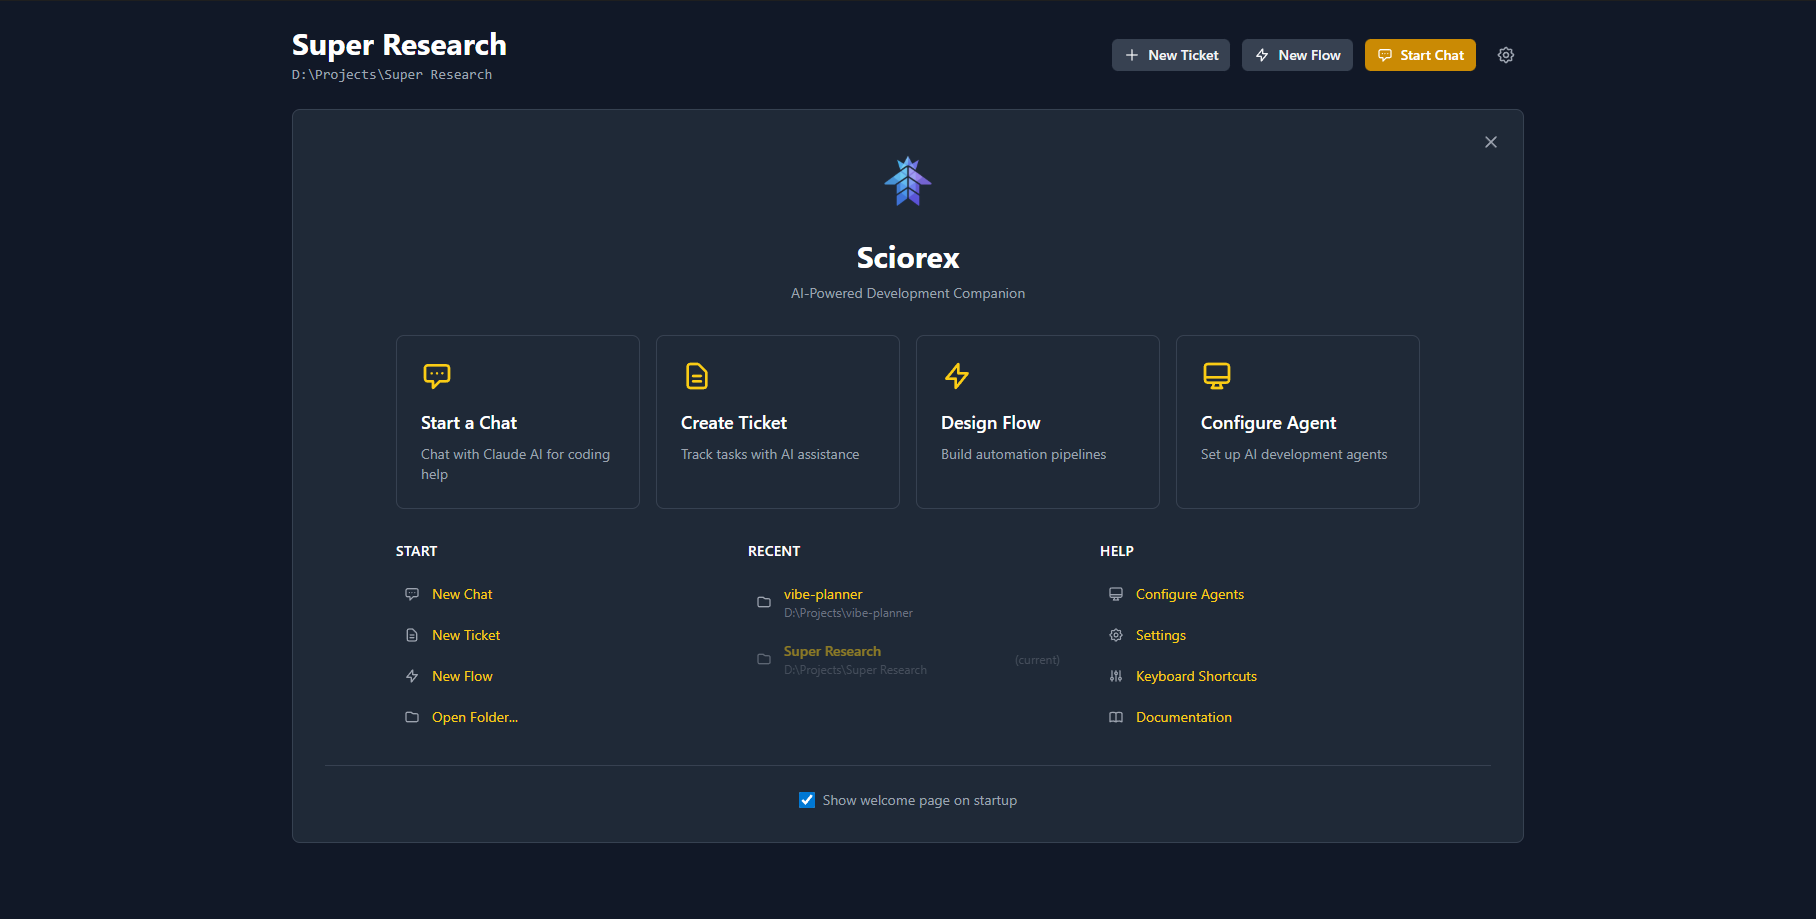
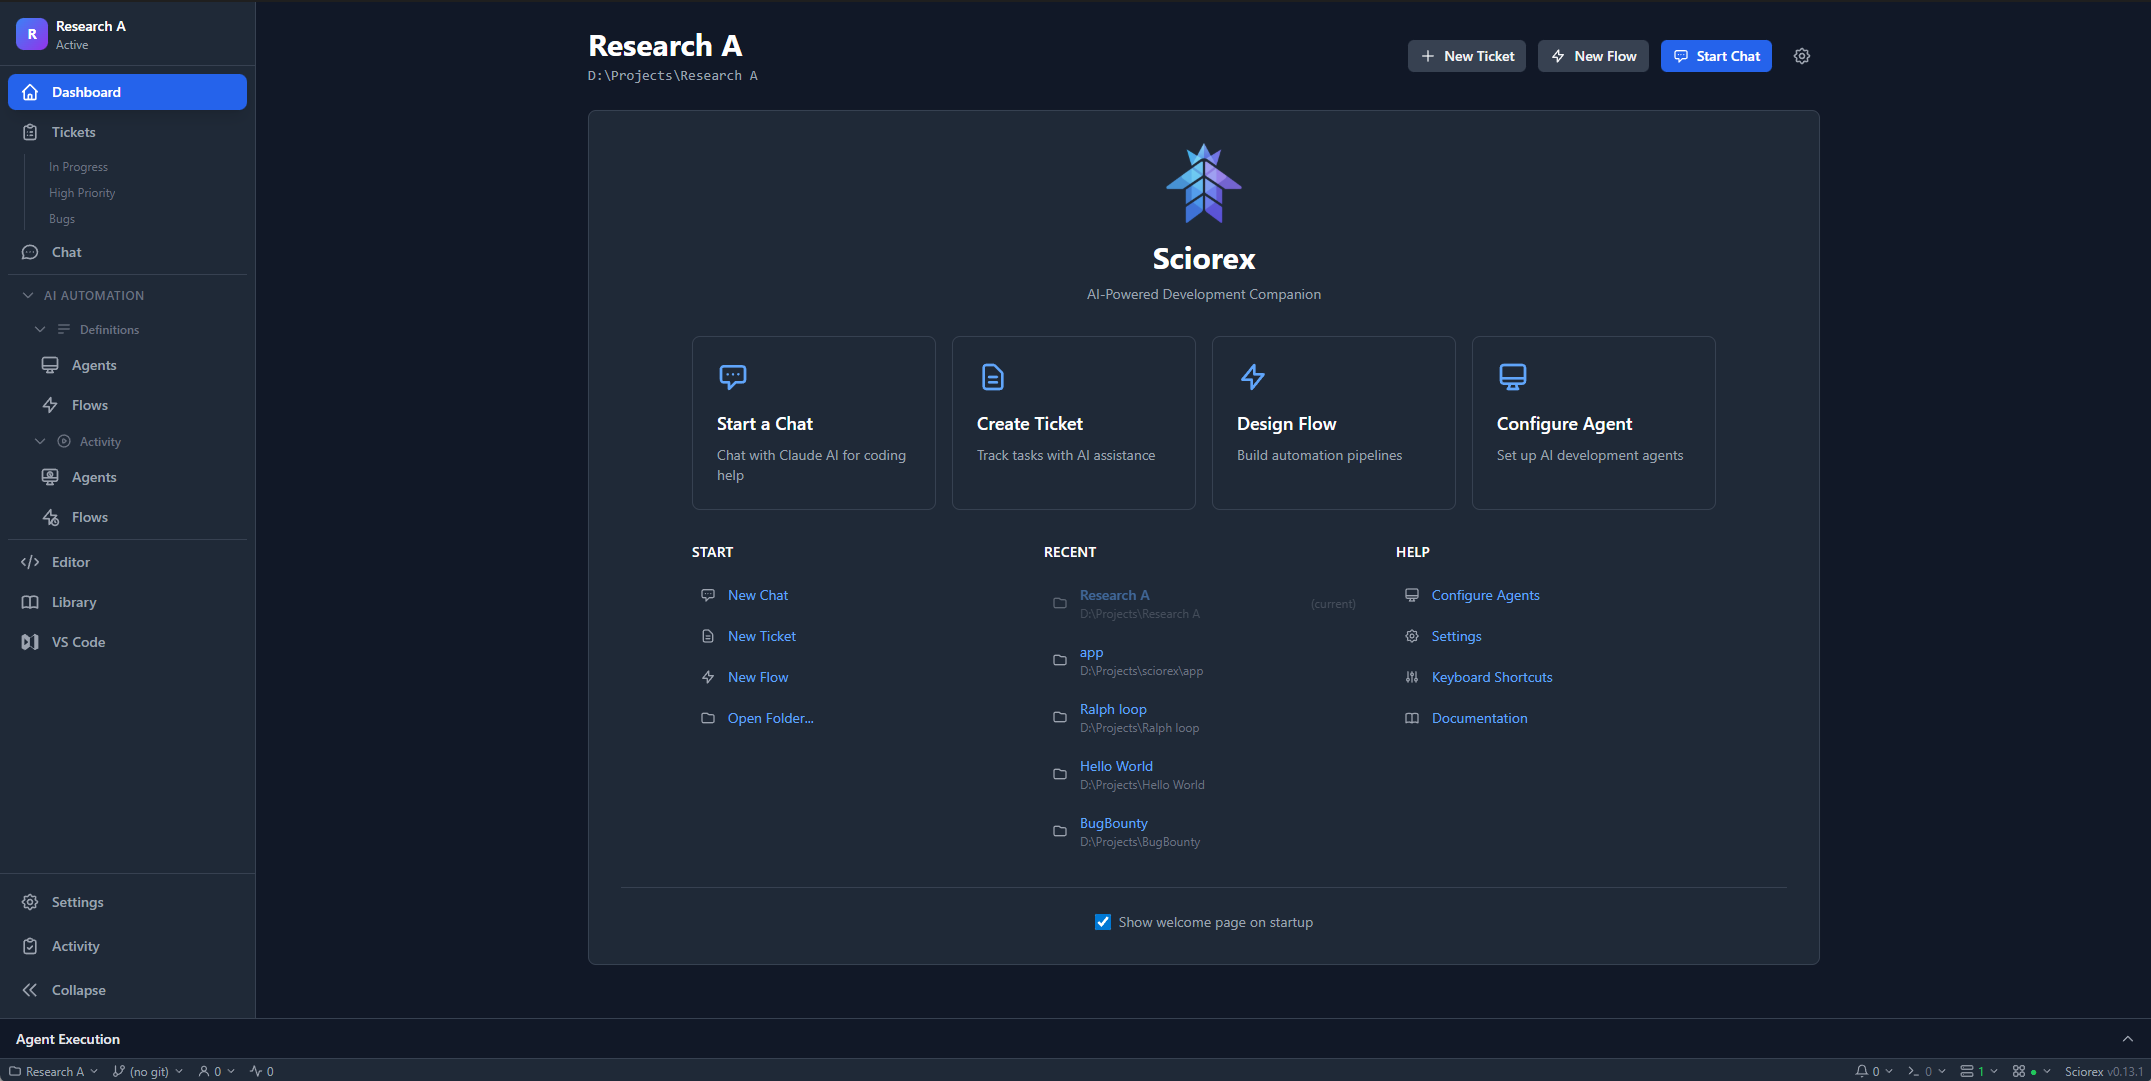
feat(research): add research screenshots and improve hero image display
- Add 6 new research feature screenshots (light/dark themes):
  - latex-editor, pdf-annotations, export-annotations
  - reference-library, paper-discovery, paper-discovery-citations
- Update hero image to show full desktop app view with gradient fade
- Add image descriptions for all research screenshots in Features.tsx
- Update EN/ES translations with new research images carousel

diff --git a/src/components/Hero.tsx b/src/components/Hero.tsx
@@ -140,12 +140,27 @@ export default function Hero() {
               <div className="absolute -inset-4 bg-gradient-to-r from-primary-500/20 to-accent-500/20 rounded-3xl blur-3xl" />
 
               {/* Main app screenshot */}
-              <div className="image-frame relative">
+              <div className="relative rounded-2xl overflow-hidden shadow-2xl shadow-primary-500/20">
                 <ThemeImage
                   name="hero-dashboard.png"
                   alt="Sciorex Dashboard"
-                  className="w-full aspect-[16/10] object-cover"
+                  className="w-full h-auto"
                 />
+                {/* Gradient fade overlay */}
+                <div className="absolute inset-0 pointer-events-none">
+                  <div
+                    className="absolute inset-x-0 bottom-0 h-32"
+                    style={{ background: 'linear-gradient(to top, var(--bg-color), var(--bg-color) 20%, transparent)' }}
+                  />
+                  <div
+                    className="absolute inset-y-0 left-0 w-16"
+                    style={{ background: 'linear-gradient(to right, var(--bg-color), transparent)' }}
+                  />
+                  <div
+                    className="absolute inset-y-0 right-0 w-16"
+                    style={{ background: 'linear-gradient(to left, var(--bg-color), transparent)' }}
+                  />
+                </div>
               </div>
 
               {/* Floating cards - hidden on mobile */}

diff --git a/src/components/Features.tsx b/src/components/Features.tsx
@@ -131,6 +131,12 @@ export default function Features() {
     'agent-run-view.png': 'Agent execution details',
     'worktree-view.png': 'Git worktree management',
     'worktree-view-2.png': 'Multiple worktrees view',
+    'latex-editor.png': 'LaTeX editor with live PDF preview',
+    'pdf-annotations.png': 'PDF highlighting and annotations',
+    'export-annotations.png': 'Export annotations to Markdown',
+    'reference-library.png': 'Reference library with collections',
+    'paper-discovery.png': 'AI-powered paper discovery',
+    'paper-discovery-citations.png': 'Citation network exploration',
   };
 
   const getImageDescription = (name: string) => imageDescriptions[name] || name.replace('.png', '').replace(/-/g, ' ');
